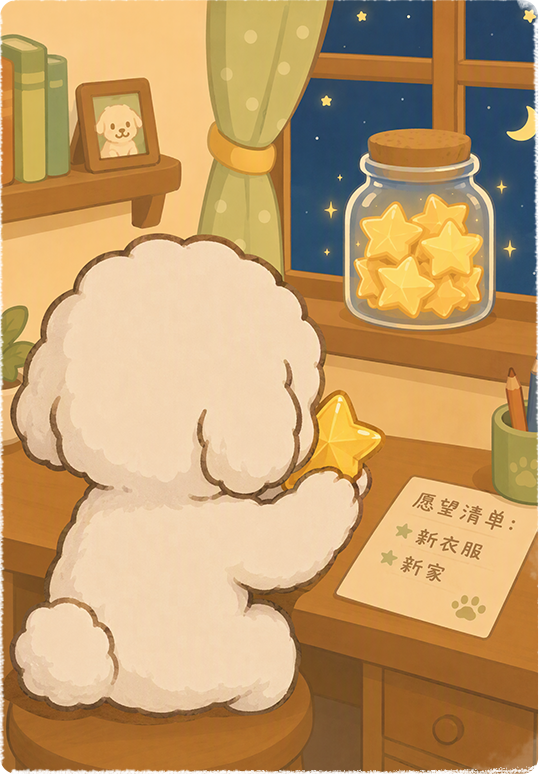
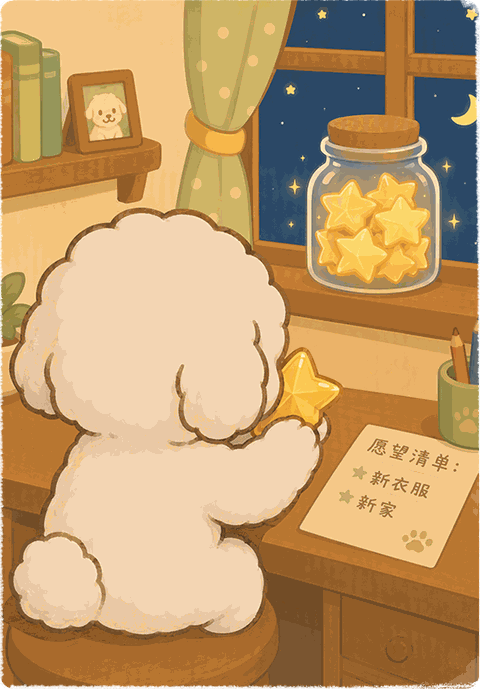
refactor：ui布局优化和包体内图片精简

Changed region(s): [[0.9688, 0.0, 1.0, 0.0305], [0.6875, 0.2743, 0.7188, 0.3048]]

diff --git a/web/src/components/activity/PetDiaryActivityPanel.vue b/web/src/components/activity/PetDiaryActivityPanel.vue
@@ -81,6 +81,7 @@ const unlocked = computed(() => pet.value?.stories.filter(s => s.unlocked).lengt
 const seedRewards = computed(() => pet.value?.seeds.days.find(d => d.claimable && !d.claimed)?.rewards || pet.value?.seeds.days[0]?.rewards || [])
 const claimableTreasures = computed(() => pet.value?.treasures.some(t => t.status === 3 || (t.status === 2 && t.endTime > 0 && t.endTime <= now.value)))
 const escortingCount = computed(() => pet.value?.treasures.filter(t => t.status === 2 && t.endTime > now.value).length || 0)
+const homeTreasures = computed(() => [...(pet.value?.treasures || [])].sort((a, b) => a.createdTime - b.createdTime))
 const treasureImage = '/game-config/seed_images_named/1030_%E5%BE%85%E6%8A%A4%E9%80%81%E5%AE%9D%E8%97%8F.png'
 const luckyStars = computed(() => pet.value?.balances.find(item => item.id === '1029'))
 const activityRemaining = computed(() => {
@@ -164,6 +165,17 @@ function itemText(items: PetItem[] = []) {
 function remaining(end: number) {
   const minutes = Math.max(0, Math.ceil((end - now.value) / 60000))
   return minutes > 0 ? `${Math.floor(minutes / 60)}小时${minutes % 60}分` : '已到结算时间'
+}
+function treasureStatus(status: number, endTime: number) {
+  if (status === 3 || (status === 2 && endTime > 0 && endTime <= now.value))
+    return '待领取'
+  if (status === 2)
+    return `护送中 · 剩余 ${remaining(endTime)}`
+  if (status === 1)
+    return '待护送 · 正在排队'
+  if (status === 4)
+    return '已领取'
+  return '状态待刷新'
 }
 function accountId() {
   return String(accountStore.currentAccountId || '')
@@ -275,7 +287,7 @@ watch(pet, (value) => {
             <div class="pet-home-top">
               <article class="pet-garden" aria-label="比熊之家">
                 <div class="pet-room">
-                  <img class="pet-room-scene" :src="art(pet.nurture.adult ? 'scene-home-adult' : 'scene-home-puppy')" :alt="pet.nurture.adult ? '成年比熊坐在家中的爪印地毯上' : '幼年比熊坐在家中的爪印地毯上'">
+                  <img class="pet-room-scene" :src="`/activity/pet-diary/scene-home-${pet.nurture.adult ? 'adult' : 'puppy'}.webp?v=20260912`" :alt="pet.nurture.adult ? '成年比熊坐在家中的爪印地毯上' : '幼年比熊坐在家中的爪印地毯上'" decoding="async">
                   <div class="pet-dog-plaque">
                     <span class="pet-rarity">
                       <img :src="art(pet.nurture.adult ? 'img_pet_rarity4' : 'img_pet_rarity2')" alt="">
@@ -352,6 +364,14 @@ watch(pet, (value) => {
                   <div v-if="!pet.treasures.length" class="pet-empty pet-empty--small">
                     <img :src="treasureImage" alt="">暂无待护送宝藏
                   </div>
+                  <article v-for="treasure in homeTreasures" :key="treasure.id" class="pet-treasure">
+                    <img :src="treasure.item.image || treasureImage" :alt="treasure.item.name">
+                    <div>
+                      <strong>{{ treasure.item.name }} ×{{ treasure.item.count }}</strong>
+                      <span>{{ treasureStatus(treasure.status, treasure.endTime) }}</span>
+                      <b>初始价值 {{ treasure.originalCount }} · 已被挑战 {{ treasure.plunderCount }}/{{ treasure.maxPlunderCount || '不限' }}</b>
+                    </div>
+                  </article>
                 </article>
                 <article class="pet-card">
                   <div class="pet-section-title">
@@ -406,9 +426,9 @@ watch(pet, (value) => {
           <main v-else-if="tab === 'stories'" class="pet-story-section" aria-label="爪印手记">
             <div class="pet-page-background" aria-hidden="true">
               <picture>
-                <source :srcset="art('scene-stories')" media="(prefers-reduced-motion: reduce)">
+                <source srcset="/activity/pet-diary/scene-stories-static.webp?v=20260912" media="(prefers-reduced-motion: reduce)" type="image/webp">
                 <source srcset="/activity/pet-diary/scene-stories.webp?v=20260910-hd" type="image/webp">
-                <img :src="art('scene-stories')" alt="" width="1020" height="460">
+                <img src="/activity/pet-diary/scene-stories-static.webp?v=20260912" alt="" width="1020" height="460" decoding="async">
               </picture>
             </div>
             <div class="pet-paper pet-story-paper">
@@ -418,7 +438,7 @@ watch(pet, (value) => {
               </div><div class="pet-stories">
                 <article v-for="story in pet.stories" :key="story.order" class="pet-story" :class="{ locked: !story.unlocked }">
                   <div class="pet-photo">
-                    <img v-if="story.unlocked && story.photo" :src="story.photo" :alt="`第 ${story.order} 则手记照片`"><img v-else class="pet-photo-placeholder" :src="art('img_s3PhotoWall_emptyBg')" :alt="`第 ${story.order} 则手记尚未解锁`">
+                    <img v-if="story.unlocked && story.photo" :src="story.photo" :alt="`第 ${story.order} 则手记照片`" loading="lazy" decoding="async"><img v-else class="pet-photo-placeholder" :src="art('img_s3PhotoWall_emptyBg')" :alt="`第 ${story.order} 则手记尚未解锁`" loading="lazy" decoding="async">
                   </div><img v-if="story.unlocked" class="pet-photo-pin" :src="art('img_s3PhotoWall_ding')" alt=""><img v-if="story.unlocked && story.captionImage" class="pet-caption" :src="story.captionImage" alt="比熊成长手记"><p v-else-if="story.unlocked && story.caption">
                     {{ story.caption }}
                   </p><button v-if="story.unlocked" class="pet-button pet-story-claim" :disabled="busy || story.claimed" @click="diary.operate('story', { order: story.order })">
@@ -432,9 +452,9 @@ watch(pet, (value) => {
           <main v-else-if="tab === 'shop'" class="pet-shop" aria-label="拾物小铺">
             <div class="pet-page-background" aria-hidden="true">
               <picture>
-                <source :srcset="art('scene-shop')" media="(prefers-reduced-motion: reduce)">
+                <source srcset="/activity/pet-diary/scene-shop-static.webp?v=20260912" media="(prefers-reduced-motion: reduce)" type="image/webp">
                 <source srcset="/activity/pet-diary/scene-shop.webp?v=20260910-hd" type="image/webp">
-                <img :src="art('scene-shop')" alt="" width="1020" height="450">
+                <img src="/activity/pet-diary/scene-shop-static.webp?v=20260912" alt="" width="1020" height="450" decoding="async">
               </picture>
             </div>
             <div class="pet-paper pet-shop-paper">
@@ -462,9 +482,8 @@ watch(pet, (value) => {
               <div class="pet-solar-scene" :class="{ 'pet-solar-scene--bailu': currentTerm.name.includes('白露') }">
                 <template v-if="currentTerm.name.includes('白露')">
                   <picture>
-                    <source :srcset="art('scene-bailu')" media="(prefers-reduced-motion: reduce)">
-                    <source srcset="/activity/pet-diary/scene-bailu.webp?v=20260910-motion" type="image/webp">
-                    <img class="pet-solar-landscape" :src="art('scene-bailu')" alt="白露节气，小童在芦苇水塘中用荷叶接露水">
+                    <source srcset="/activity/pet-diary/scene-bailu-static.webp?v=20260912" type="image/webp">
+                    <img class="pet-solar-landscape" src="/activity/pet-diary/scene-bailu-static.webp?v=20260912" alt="白露节气，小童在芦苇水塘中用荷叶接露水" decoding="async">
                   </picture>
                   <div class="pet-solar-lettering">
                     <img :src="art('img_S3Jieqi_title_bailu_trim')" alt="白露"><img :src="art('img_S3Jieqi_txt_bailu_trim')" alt="白露节令题诗">
@@ -2137,8 +2156,28 @@ watch(pet, (value) => {
   .pet-header {
     position: relative;
     inset: auto;
-    padding: 20px 28px;
-    flex-wrap: wrap;
+    padding: 16px;
+    flex-wrap: nowrap;
+    gap: 8px;
+  }
+  .pet-brand {
+    flex: 1;
+    min-width: 0;
+  }
+  .pet-heading {
+    flex: 1;
+  }
+  .pet-heading h1 img {
+    width: clamp(150px, 32cqw, 210px);
+  }
+  .pet-header-tools {
+    flex: none;
+    gap: 6px;
+  }
+  .pet-wallet {
+    right: auto;
+    left: 0;
+    width: min(300px, calc(100cqw - 32px));
   }
   .pet-home-top {
     display: block;
@@ -2180,9 +2219,6 @@ watch(pet, (value) => {
   .pet-stories {
     grid-template-columns: repeat(2, minmax(0, 1fr));
   }
-  .pet-heading h1 img {
-    width: 230px;
-  }
   .pet-solar-gift {
     grid-template-columns: 1fr;
   }
@@ -2211,7 +2247,7 @@ watch(pet, (value) => {
     gap: 6px;
   }
   .pet-heading h1 img {
-    width: 168px;
+    width: clamp(120px, 32cqw, 168px);
   }
   .pet-heading h1 {
     margin-bottom: 7px;
@@ -2442,6 +2478,22 @@ watch(pet, (value) => {
   }
   .pet-exchange-product h3 {
     font-size: 17px;
+  }
+}
+@container (max-width: 430px) {
+  .pet-header {
+    display: grid;
+    grid-template-columns: minmax(0, 1fr) auto;
+  }
+  .pet-brand {
+    grid-column: 1 / -1;
+  }
+  .pet-header-tools {
+    grid-column: 1 / -1;
+    justify-content: flex-start;
+  }
+  .pet-wallet {
+    width: min(300px, calc(100cqw - 32px));
   }
 }
 @container (max-width: 350px) {

diff --git a/web/src/views/Activity.vue b/web/src/views/Activity.vue
@@ -1,13 +1,12 @@
 <script setup lang="ts">
 import type { ActivityLabels, ActivitySection, ActivitySectionKey } from '@/components/activity/types'
 import { storeToRefs } from 'pinia'
-import { computed, onMounted, onUnmounted, ref, watch } from 'vue'
+import { computed, defineAsyncComponent, onMounted, onUnmounted, ref, watch } from 'vue'
 import api from '@/api'
 import CharityFlowerActivityPanel from '@/components/activity/CharityFlowerActivityPanel.vue'
 import HeluExchangePanel from '@/components/activity/HeluExchangePanel.vue'
 import HeluPassportPanel from '@/components/activity/HeluPassportPanel.vue'
 import HeluSolarTermsPanel from '@/components/activity/HeluSolarTermsPanel.vue'
-import PetDiaryActivityPanel from '@/components/activity/PetDiaryActivityPanel.vue'
 import QixiActivityPanel from '@/components/activity/QixiActivityPanel.vue'
 import RainPoemActivityPanel from '@/components/activity/RainPoemActivityPanel.vue'
 import StarRecordPanel from '@/components/activity/StarRecordPanel.vue'
@@ -17,6 +16,8 @@ import { useAccountStore } from '@/stores/account'
 import { useActivityStore } from '@/stores/activity'
 import { useToastStore } from '@/stores/toast'
 import { useUserStore } from '@/stores/user'
+
+const PetDiaryActivityPanel = defineAsyncComponent(() => import('@/components/activity/PetDiaryActivityPanel.vue'))
 
 const L: ActivityLabels = {
   title: '活动中心',
@@ -219,7 +220,7 @@ const activityCards = computed(() => {
         'charity-flower': 'i-carbon-favorite',
         'rain-poem': 'i-carbon-rain-heavy',
       }[adaptedKey || ''] || 'i-carbon-calendar',
-      image: adaptedKey === 'pet-diary' ? '/activity/pet-diary/scene-home-adult.png' : group.imageUrl || (adaptedKey === 'rain-poem' ? '/activity/rain-poem/day-rain-bg.jpg' : ''),
+      image: adaptedKey === 'pet-diary' ? '/activity/pet-diary/scene-home-adult.webp?v=20260912' : group.imageUrl || (adaptedKey === 'rain-poem' ? '/activity/rain-poem/day-rain-bg.jpg' : ''),
       imagePosition: adaptedKey === 'pet-diary' ? 'center 64%' : 'center',
       window,
       updatedMs: window.startMs,

diff --git a/core/test/pet-diary.test.js b/core/test/pet-diary.test.js
@@ -264,7 +264,7 @@ test('素材路径使用本地 /activity/pet-diary/ 前缀', () => {
         );
         assert.ok(!charm.image.includes('activity-assets'), '不应残留上游 activity-assets 前缀');
     }
-    assert.strictEqual(assets.length, 132, '素材映射表条目数应为 132');
+    assert.strictEqual(assets.length, 129, '精简后的素材映射表条目数应为 129');
 });
 
 test('活动物品名称已进入统一配置，不出现未知物品', () => {
